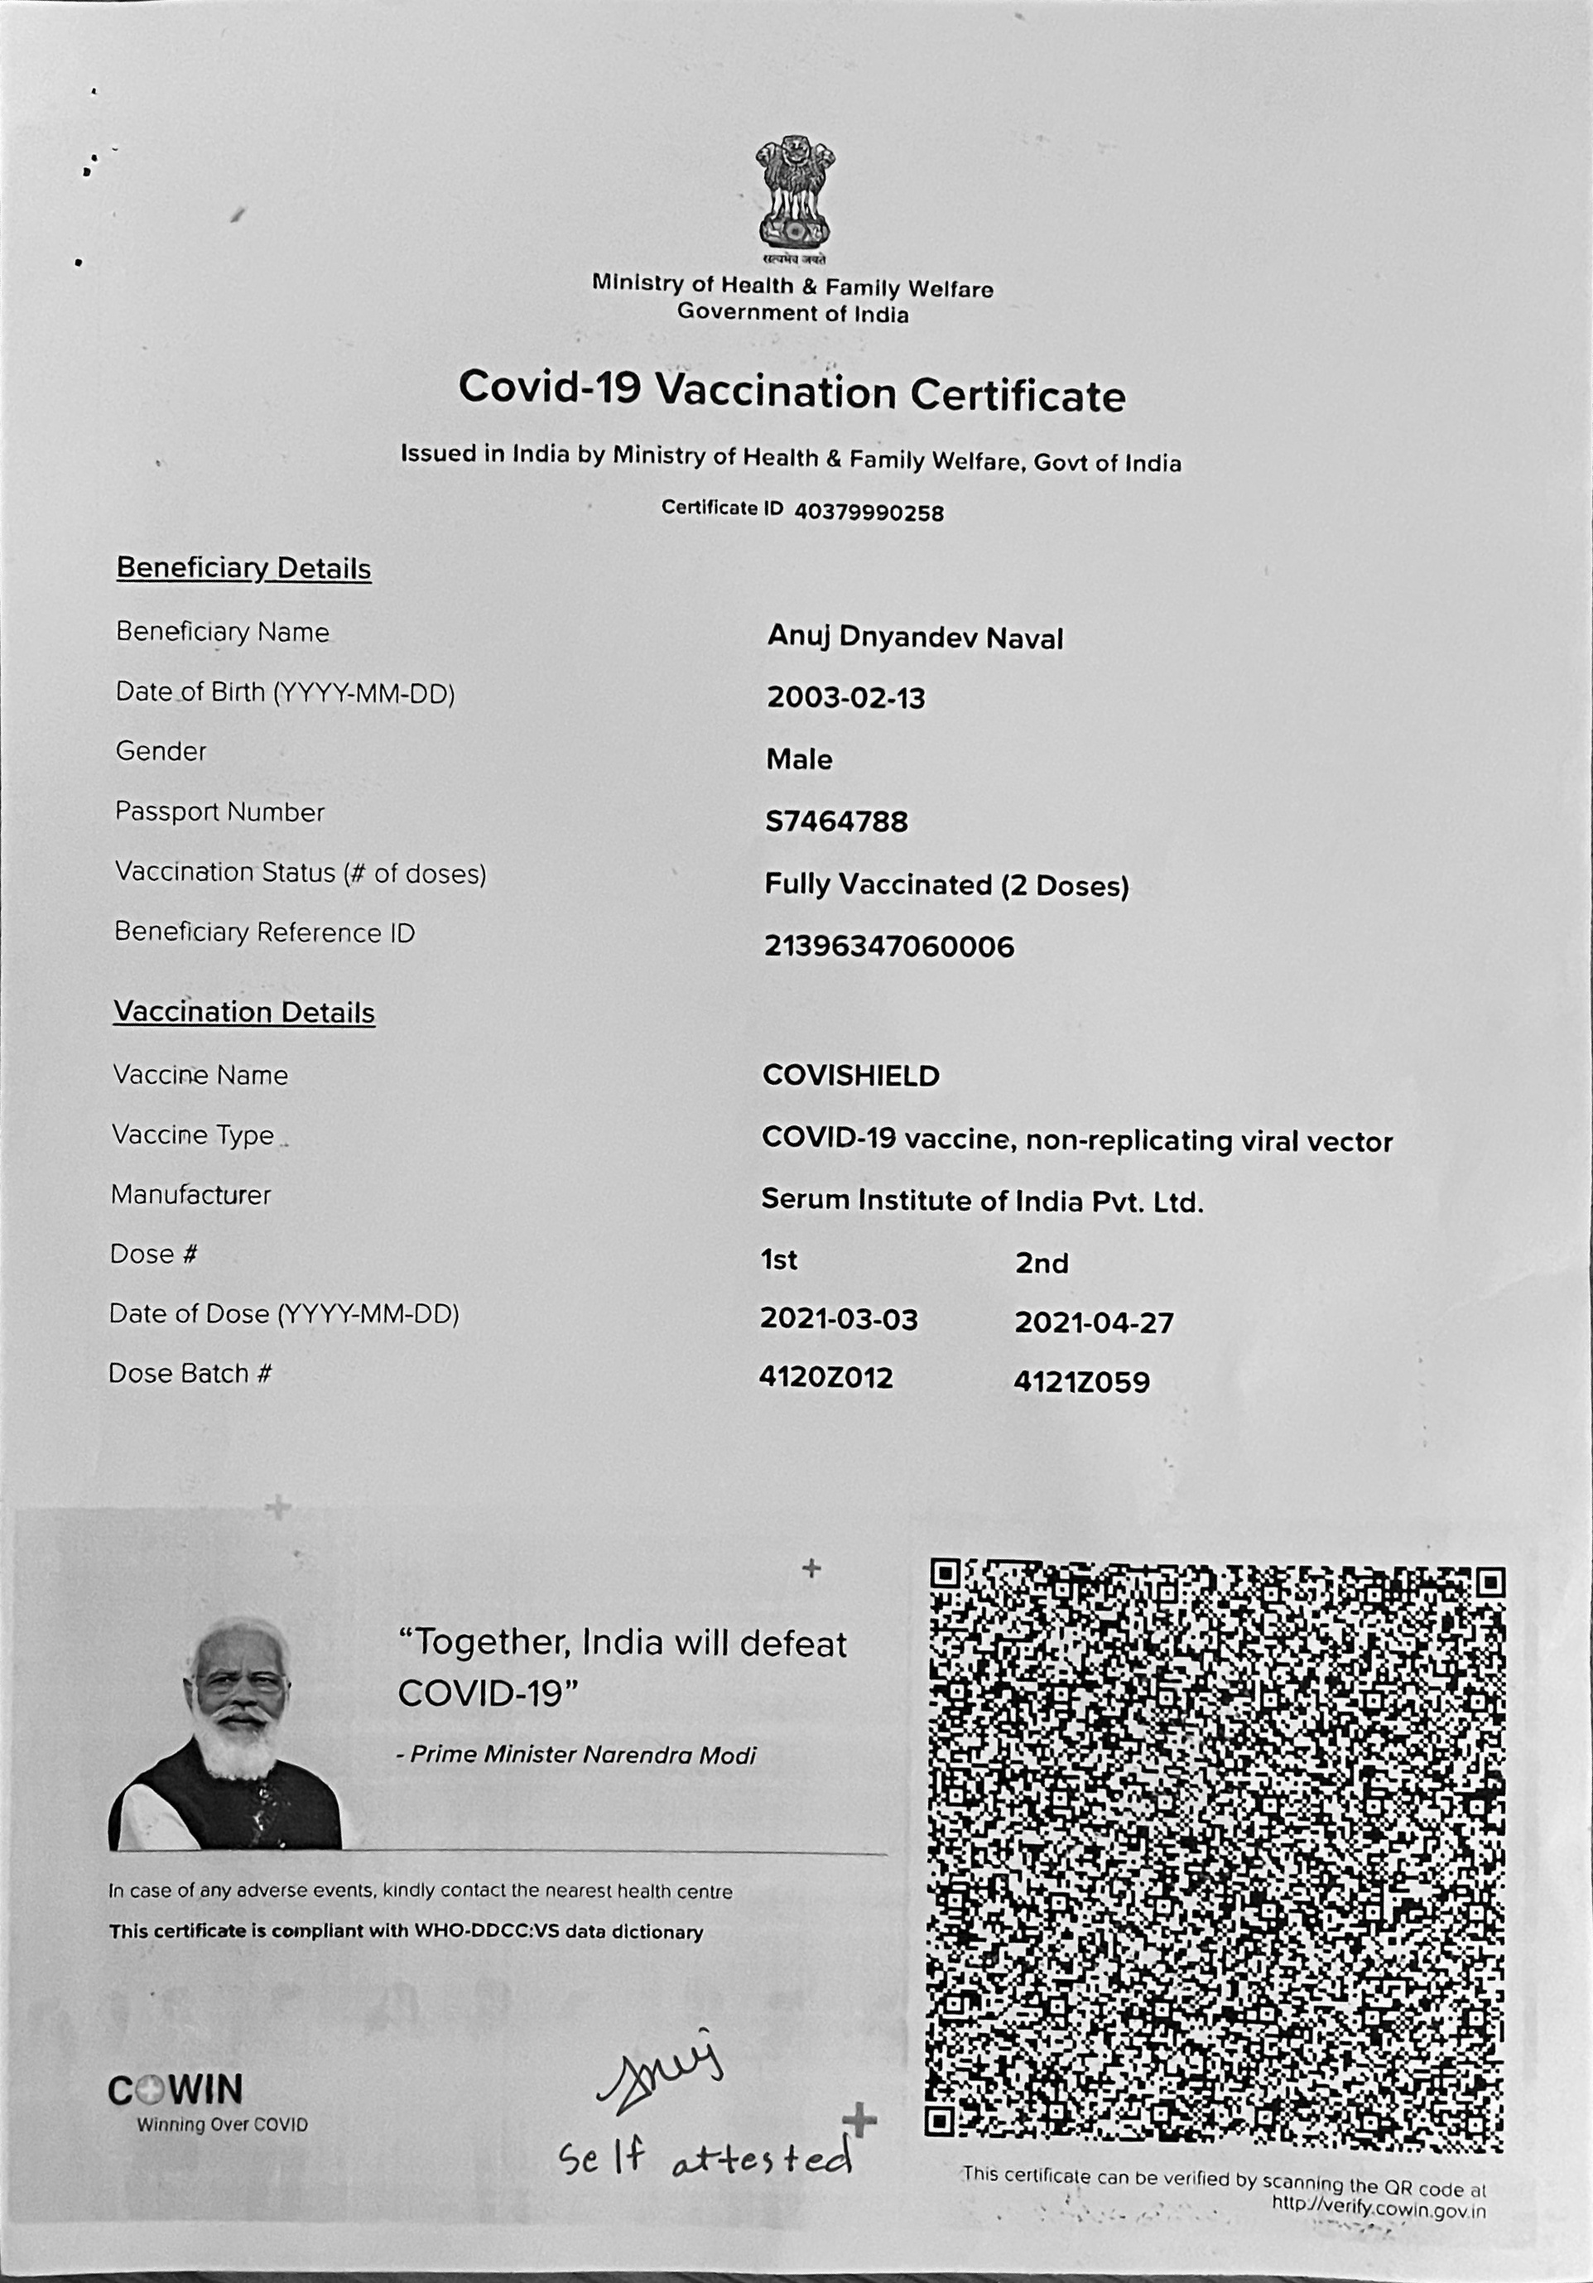
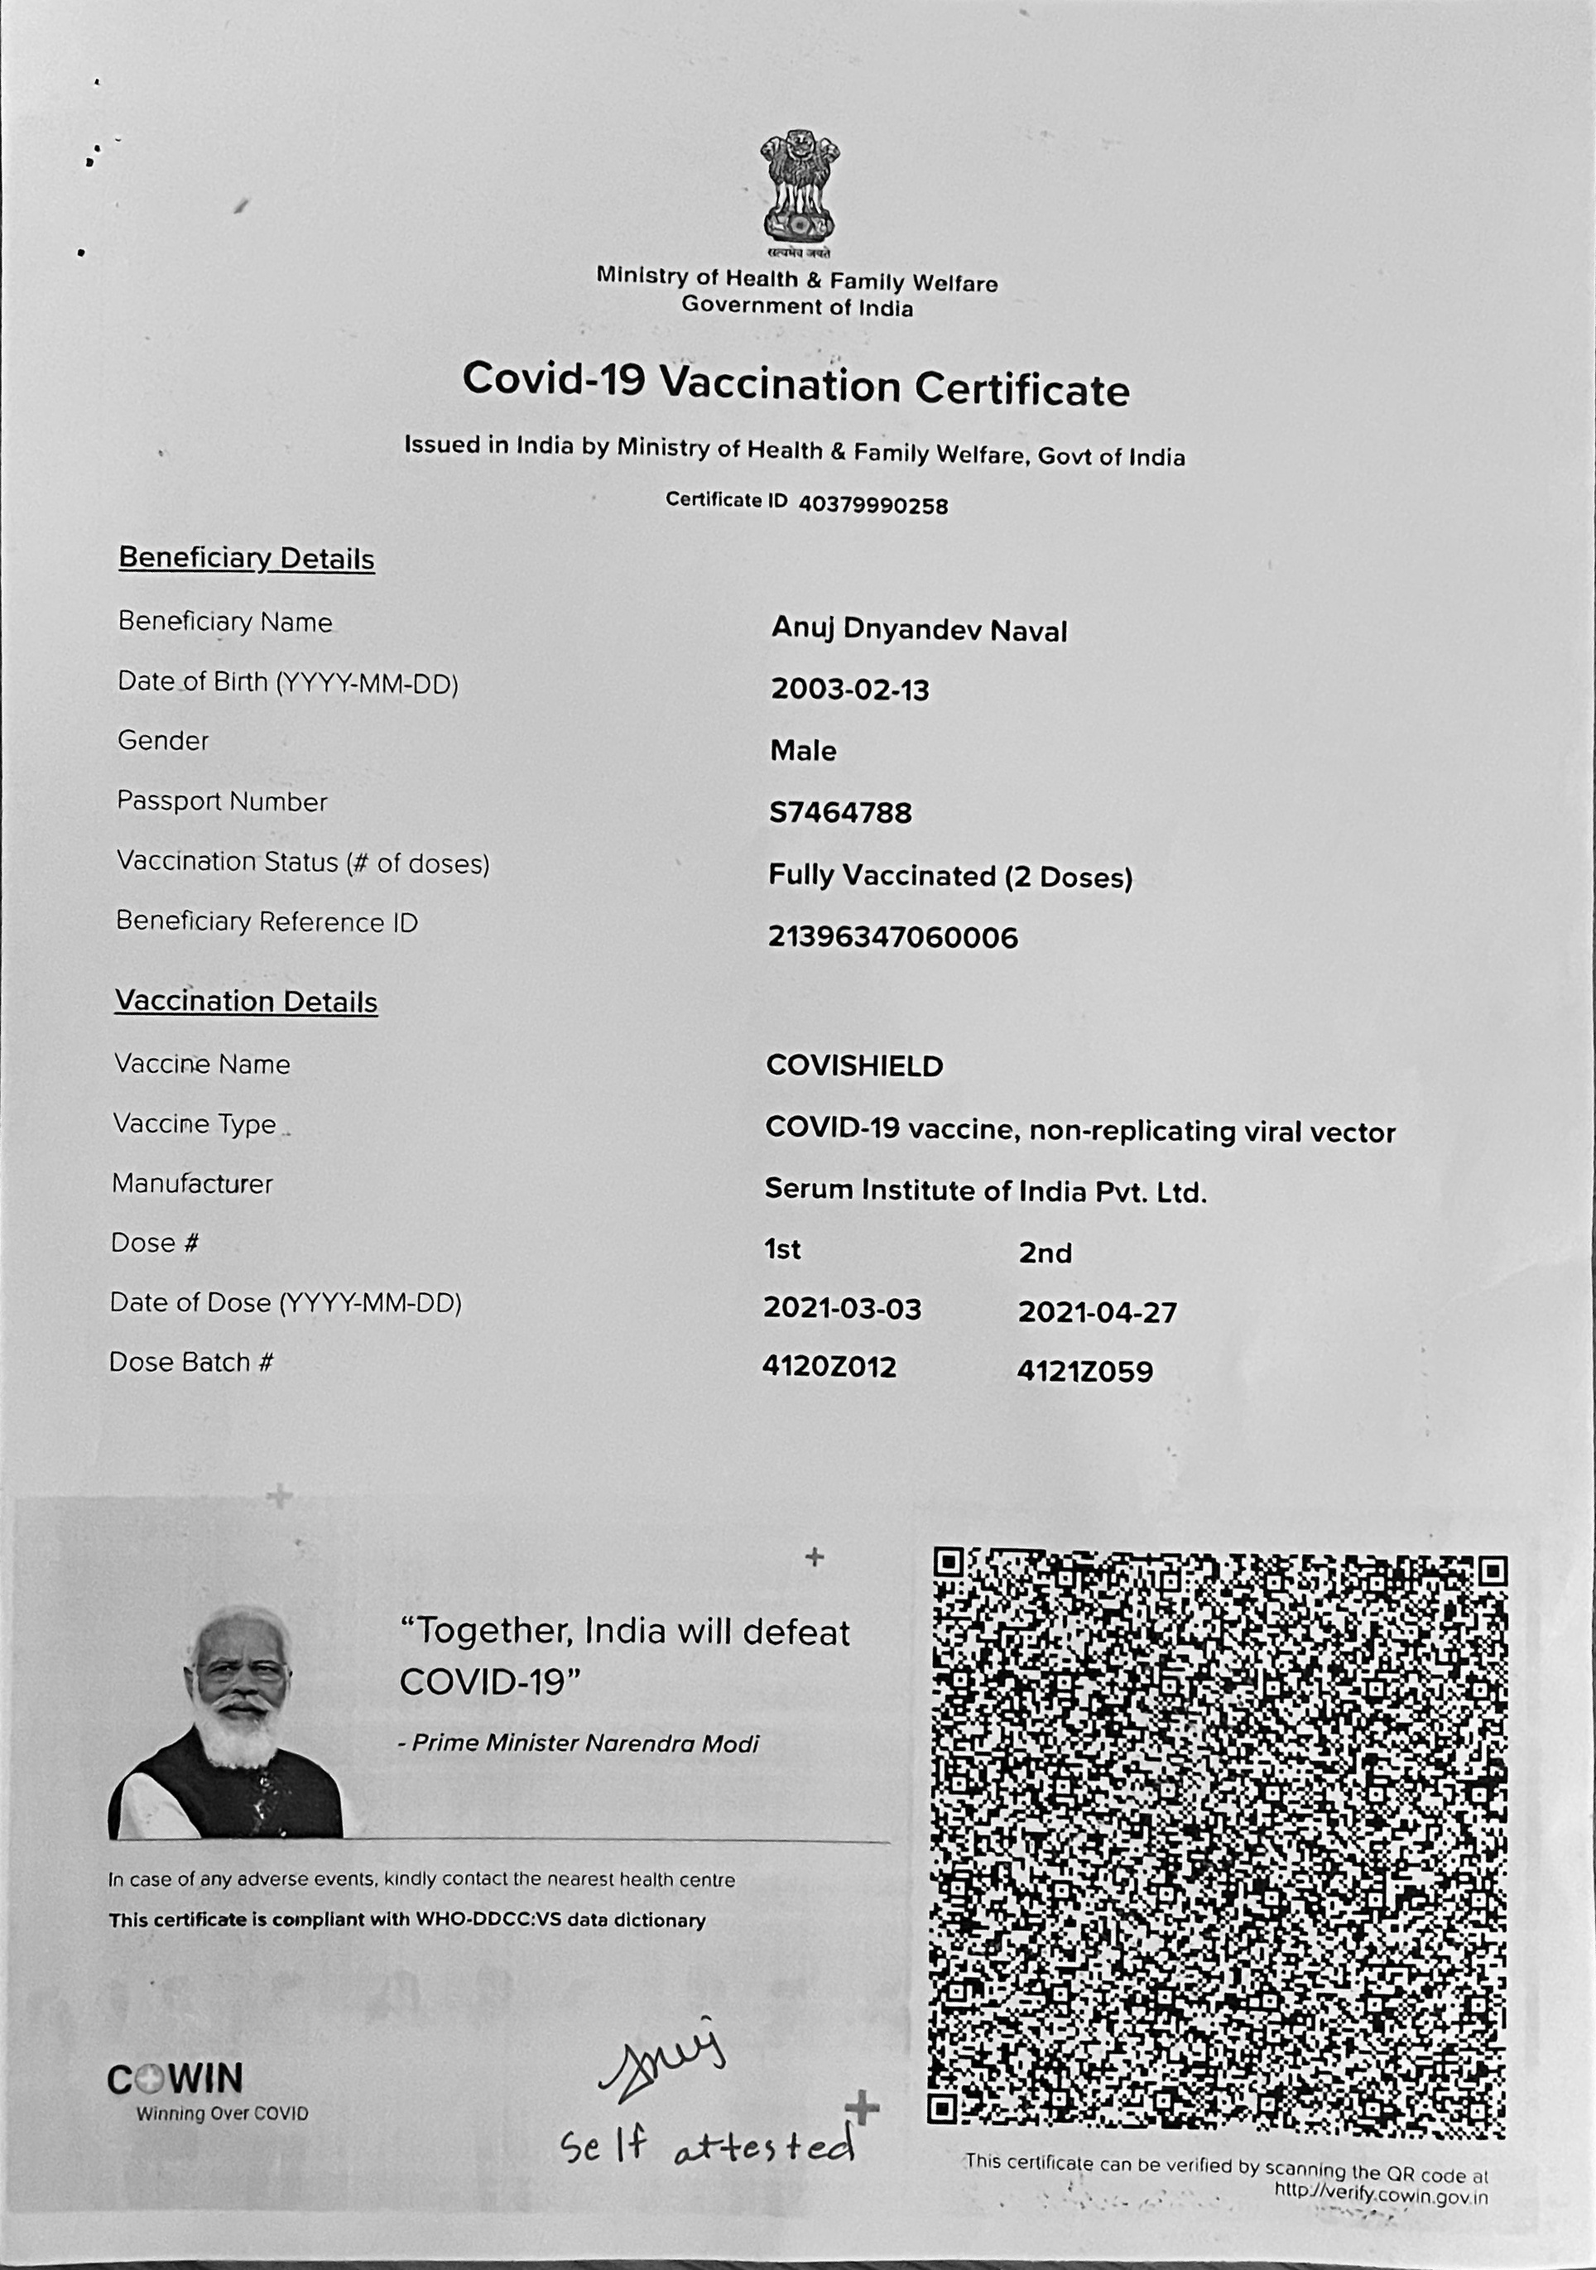
Part 1.1

diff --git a/document_scanner.py b/document_scanner.py
@@ -52,6 +52,92 @@ def order_points(pts):
     
     return rect
 
+def compute_homography(src_points, dst_points):
+    """
+    Compute homography matrix from source to destination points
+    """
+    # Create matrix A
+    A = []
+    for i in range(4):
+        x, y = src_points[i]
+        u, v = dst_points[i]
+        A.append([x, y, 1, 0, 0, 0, -u*x, -u*y])
+        A.append([0, 0, 0, x, y, 1, -v*x, -v*y])
+    
+    A = np.array(A)
+    
+    # Create vector b
+    b = dst_points.flatten()
+    
+    # Solve for homography parameters
+    h = np.linalg.lstsq(A, b, rcond=None)[0]
+    
+    # Reshape into 3x3 matrix
+    H = np.array([[h[0], h[1], h[2]],
+                  [h[3], h[4], h[5]],
+                  [h[6], h[7], 1]])
+    
+    return H
+
+def apply_homography(H, x, y):
+    """
+    Apply homography transformation to a point
+    """
+    point = np.array([x, y, 1])
+    transformed = H @ point
+    transformed /= transformed[2]  # Normalize by homogeneous coordinate
+    return transformed[0], transformed[1]
+
+def manual_warp_perspective(image, H, output_size, interpolation='nearest'):
+    """
+    Apply perspective transformation manually
+    """
+    h, w = output_size
+    warped = np.zeros((h, w), dtype=image.dtype)
+    
+    # Compute inverse homography for backward mapping
+    H_inv = np.linalg.inv(H)
+    
+    for y_out in range(h):
+        for x_out in range(w):
+            # Apply inverse homography to find source coordinates
+            x_src, y_src = apply_homography(H_inv, x_out, y_out)
+            
+            if interpolation == 'nearest':
+                # Nearest neighbor interpolation
+                x_nearest = int(round(x_src))
+                y_nearest = int(round(y_src))
+                
+                # Check if within source image bounds
+                if 0 <= x_nearest < image.shape[1] and 0 <= y_nearest < image.shape[0]:
+                    warped[y_out, x_out] = image[y_nearest, x_nearest]
+            
+            elif interpolation == 'bilinear':
+                # Bilinear interpolation
+                x_floor = int(np.floor(x_src))
+                y_floor = int(np.floor(y_src))
+                x_ceil = min(x_floor + 1, image.shape[1] - 1)
+                y_ceil = min(y_floor + 1, image.shape[0] - 1)
+                
+                # Check if within source image bounds
+                if 0 <= x_floor < image.shape[1] and 0 <= y_floor < image.shape[0]:
+                    # Calculate interpolation weights
+                    dx = x_src - x_floor
+                    dy = y_src - y_floor
+                    
+                    # Get the four neighboring pixels
+                    top_left = image[y_floor, x_floor]
+                    top_right = image[y_floor, x_ceil]
+                    bottom_left = image[y_ceil, x_floor]
+                    bottom_right = image[y_ceil, x_ceil]
+                    
+                    # Interpolate
+                    top = (1 - dx) * top_left + dx * top_right
+                    bottom = (1 - dx) * bottom_left + dx * bottom_right
+                    warped[y_out, x_out] = (1 - dy) * top + dy * bottom
+    
+    return warped
+
 def perspective_transform(image, pts):
     """
     Apply perspective transformation to get a top-down view
@@ -78,12 +164,12 @@ def perspective_transform(image, pts):
         [maxWidth - 1, maxHeight - 1],
         [0, maxHeight - 1]], dtype="float32")
     
-    # Compute the perspective transform matrix
-    M = cv2.getPerspectiveTransform(rect, dst)
+    # Compute the homography matrix
+    H = compute_homography(rect, dst)
     
     # Apply the transformation with different interpolation methods
-    warped_nearest = cv2.warpPerspective(image, M, (maxWidth, maxHeight), flags=cv2.INTER_NEAREST)
-    warped_linear = cv2.warpPerspective(image, M, (maxWidth, maxHeight), flags=cv2.INTER_LINEAR)
+    warped_nearest = manual_warp_perspective(image, H, (maxHeight, maxWidth), interpolation='nearest')
+    warped_linear = manual_warp_perspective(image, H, (maxHeight, maxWidth), interpolation='bilinear')
     
     return warped_nearest, warped_linear
 
